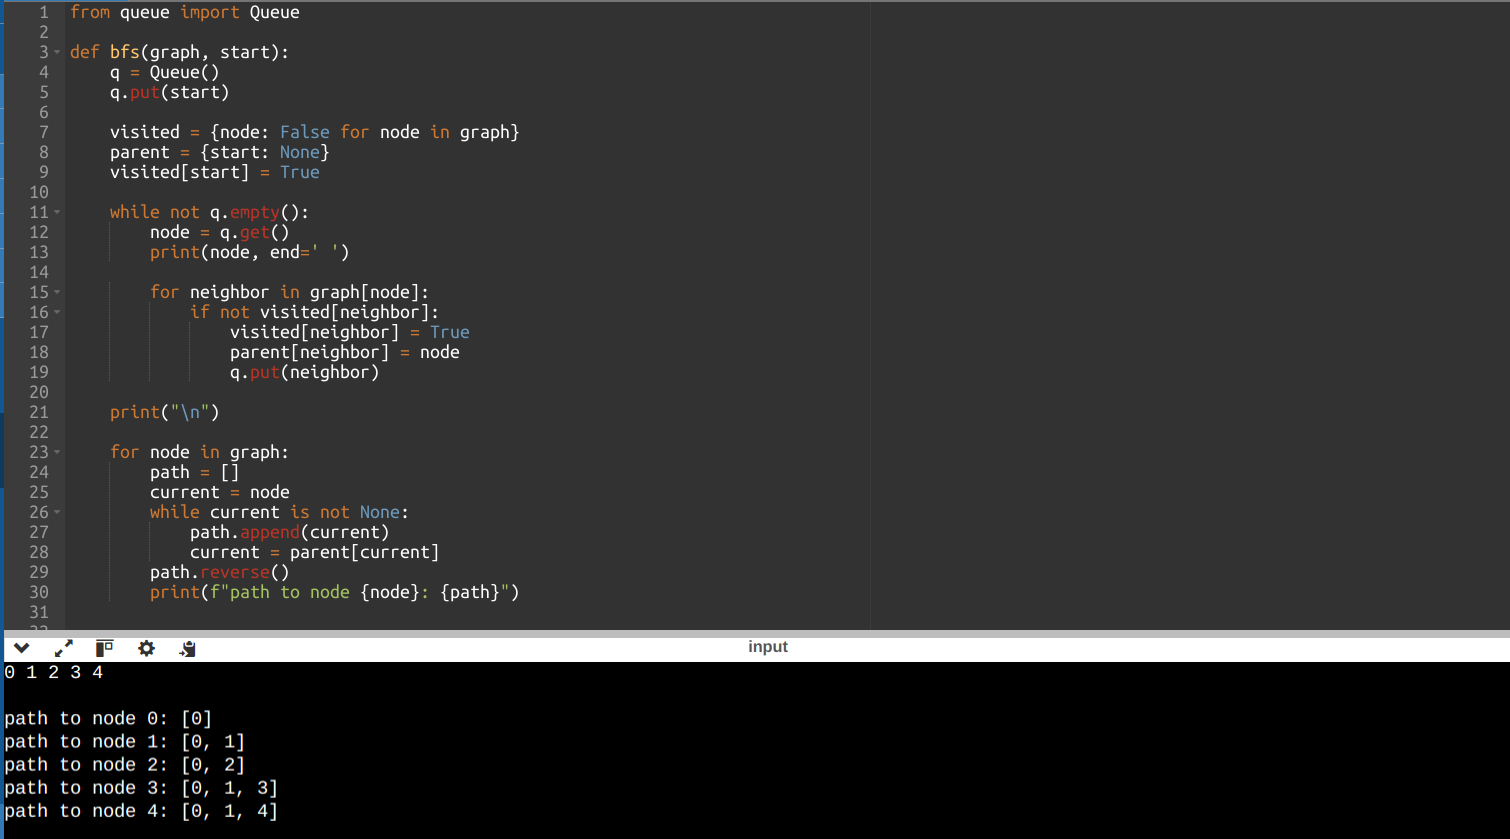
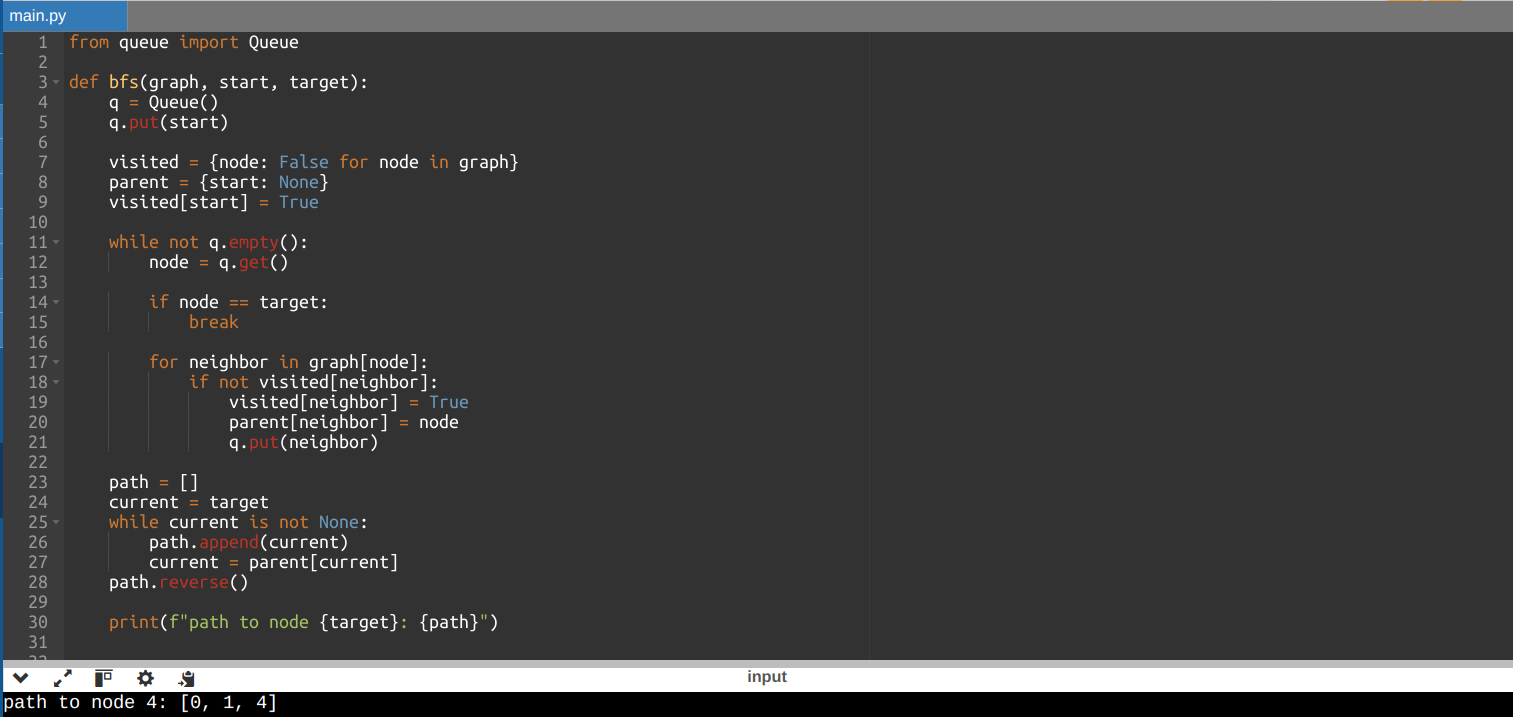
make bfs and dfs accept a target node and print the path to it

diff --git a/AI/Task 2/dfs.py b/AI/Task 2/dfs.py
@@ -1,4 +1,4 @@
-def dfs(graph, start):
+def dfs(graph, start, target):
     visited = {node: False for node in graph}
     parent = {start: None}
     stack = [start]
@@ -7,20 +7,25 @@ def dfs(graph, start):
         current = stack.pop()
         if not visited[current]:
             visited[current] = True
+
+            if current == target:
+                break
+
             for neighbor in graph[current]:
                 if not visited[neighbor]:
                     parent[neighbor] = current
                     stack.append(neighbor)
 
-    for node in graph:
-        path = []
-        current = node
-        while current is not None:
-            path.append(current)
-            current = parent[current]
-        path.reverse()
-        print(f"path to node {node}: {path}")
-    
+    path = []
+    current = target
+    while current is not None:
+        path.append(current)
+        current = parent[current]
+    path.reverse()
+
+    print(f"path to node {target}: {path}")
+
+
 graph = {
     0: [1, 2],
     1: [0, 3, 4],
@@ -28,5 +33,5 @@ graph = {
     3: [1],
     4: [1, 2]
 }
-dfs(graph, 0)
-    
+
+dfs(graph, 0, 4)

diff --git a/AI/Task 2/bfs.py b/AI/Task 2/bfs.py
@@ -1,6 +1,6 @@
 from queue import Queue
 
-def bfs(graph, start):
+def bfs(graph, start, target):
     q = Queue()
     q.put(start)
 
@@ -10,7 +10,9 @@ def bfs(graph, start):
 
     while not q.empty():
         node = q.get()
-        print(node, end=' ')
+
+        if node == target:
+            break
 
         for neighbor in graph[node]:
             if not visited[neighbor]:
@@ -18,16 +20,14 @@ def bfs(graph, start):
                 parent[neighbor] = node
                 q.put(neighbor)
 
-    print("\n")
+    path = []
+    current = target
+    while current is not None:
+        path.append(current)
+        current = parent[current]
+    path.reverse()
 
-    for node in graph:
-        path = []
-        current = node
-        while current is not None:
-            path.append(current)
-            current = parent[current]
-        path.reverse()
-        print(f"path to node {node}: {path}")
+    print(f"path to node {target}: {path}")
 
 
 graph = {
@@ -38,5 +38,4 @@ graph = {
     4: [1, 2]
 }
 
-bfs(graph, 0)
-
+bfs(graph, 0, 4)
